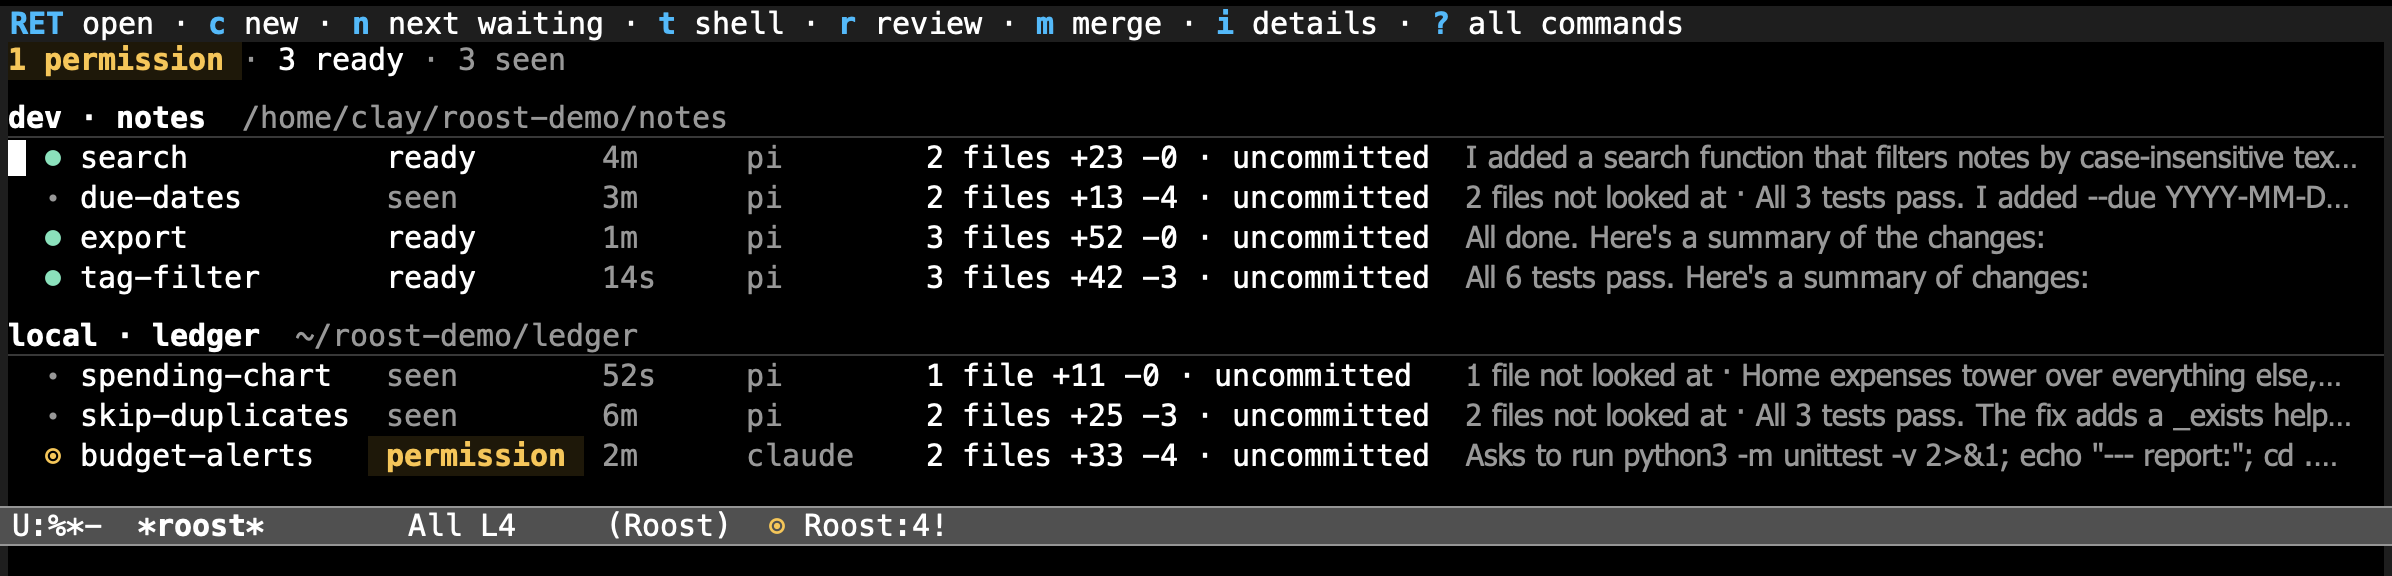
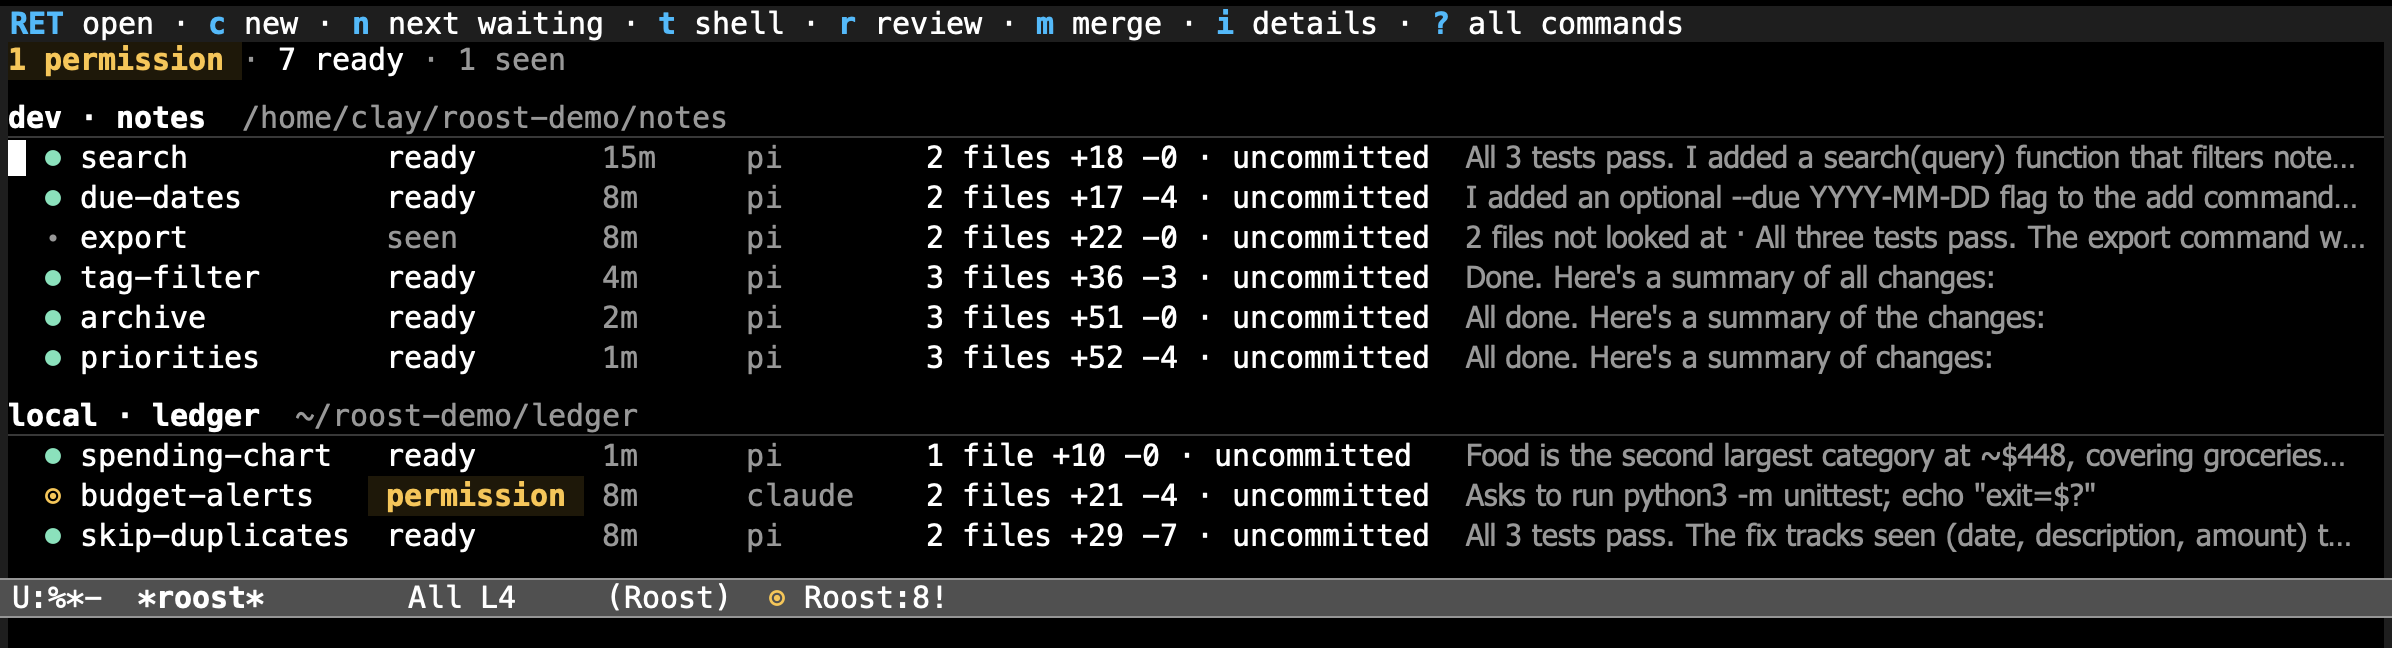
Retake the README's hero, review and dashboard with a task's terminal named

diff --git a/docs/demo.md b/docs/demo.md
@@ -3,7 +3,7 @@
 The images are captures of GUI Emacs, taken while agents worked on two small
 disposable projects: `ledger`, an expense-ledger CLI on this machine, and
 `notes`, a notes CLI on the host `dev`. Every agent was a real session in its
-own terminal: six of Pi 1.5.2, with a model run locally (qwen3.6-35b in LM
+own terminal: eight of Pi 1.5.2, with a model run locally (qwen3.6-35b in LM
 Studio), and one of Claude Code 2.1.325 (`--model haiku`, with
 `--permission-mode acceptEdits`, so it asked before commands but not before
 edits).
@@ -18,37 +18,40 @@ else. It had `roost-sidebar-mode` and `roost-task-panel-mode` on,
 
 `dev` was a Linux machine reached over SSH, with its own helper, tmux server
 and task records. Its Pi sessions used the model on this machine, through a
-port forwarded over SSH. Pi was started as
-`env PI_IMAGE_PROTOCOL=kitty PI_OFFLINE=1 pi`, which has it send the images
-it reads and leaves out its notices of updates. The title bar was cropped
-from each capture.
+port forwarded over SSH. Pi was started as `env PI_OFFLINE=1 pi`, which
+leaves out its notices of updates; Roost has it send the images it reads.
+The title bar was cropped from each capture.
 
 | File | What it shows |
 | --- | --- |
-| `roost-hero.png` | Seven agents on two hosts: the sidebar, the terminal of `spending-chart`, where Pi has read the chart it drew and the picture shows above its reply, and that task's panel |
+| `roost-hero.png` | Nine agents on two hosts: the sidebar, the terminal of `spending-chart`, where Pi has read the chart it drew and the picture shows above its reply, and that task's panel |
 | `roost-new-task.png` | `plans.org` beside the draft that `C-c r c` made from its heading |
 | `roost-review.png` | `spending-chart`'s terminal above the diff of `ledger.py`, with a review note under a line |
-| `roost-dashboard.png` | The dashboard of the same seven tasks, with `budget-alerts` asking |
+| `roost-dashboard.png` | The dashboard of the same nine tasks, with `budget-alerts` asking |
 
 ## How they were made
 
 All four were taken on 2026-11-16, with Roost as it is after 0.12.0 and
-terminals through ghostel-tmux. `ledger` has a `plot.py` that draws a bar
+terminals through ghostel-tmux; the hero, the review and the dashboard
+again that day, once a task's terminal was named by its host and task. `ledger` has a `plot.py` that draws a bar
 chart as a PNG with no plotting library. `spending-chart` was asked to add a
 `chart` command that draws spending by category with it, to run it, and to
 look at the picture with Pi's read tool, which is what puts the picture in
-its terminal; it was then asked to show the picture again and say in a
-sentence what stands out, with Pi's thinking folded (`C-t` in Pi). The
+its terminal; it was then asked to read the picture again and say in a
+sentence which category is smallest, with Pi's thinking folded (`C-t` in
+Pi). The picture is drawn when Pi reads it, and goes blank when Pi draws
+its screen again, as after the frame changes size, so each capture was
+taken at its size before the last read. The
 other Pi tasks were given small features with tests, and left when they
 finished. `budget-alerts`, the Claude Code task, was answered until it asked
 to run `python3 -m unittest`, and left asking. To have one agent working at
-the moment of the hero, `tag-filter` was started on `dev` just before it.
+the moment of the hero, `priorities` was started on `dev` just before it.
 The review note was saved on its line of the diff of `ledger.py`, which was
 opened with `roost-diff` from `spending-chart`.
 
 Each was taken at its own frame size, so that the text reads at the width
-GitHub shows the README: 172 columns by 40 lines for the hero, 132 by 20 for
-the draft and 132 by 16 for the dashboard, with the sidebar and panel off,
+GitHub shows the README: 172 columns by 38 lines for the hero, 132 by 20 for
+the draft and 132 by 18 for the dashboard, with the sidebar and panel off,
 and 156 by 36 for the review, with the sidebar off. The disposable projects,
 tasks and capture state were removed afterwards.
 

diff --git a/README.md b/README.md
@@ -12,9 +12,9 @@ worktree, a branch and a terminal, here or on any SSH host. It tells you which
 agents need you, and you review and merge their work with Magit. If you've
 used Orca, it's that idea, inside Emacs.
 
-![Emacs with three columns: Roost's sidebar listing seven agents on two hosts, the one you are on marked with a band, two ready, one working, one with changes not looked at, one already looked at and one asking permission, with what it asks under it; that agent's Pi terminal, where it has read the chart it drew, and the bar chart shows above its reply; and the task's panel, which says to review its changes in Magit and lists the file it changed](docs/images/roost-hero.png)
+![Emacs with three columns: Roost's sidebar listing nine agents on two hosts, the one you are on marked with a band, five ready, one working, one with changes not looked at and one asking permission, with what it asks under it; that agent's Pi terminal, named local › spending-chart in its mode line, where it has read the chart it drew, and the bar chart shows above its reply; and the task's panel, which says to review its changes in Magit and lists the file it changed](docs/images/roost-hero.png)
 
-*Seven agents on two hosts, six of them Pi and one Claude Code. The Pi agent
+*Nine agents on two hosts, eight of them Pi and one Claude Code. The Pi agent
 in the middle drew a chart and looked at it, and its terminal shows the
 picture. Every task is at the left, and at the right is what to do next and
 what it changed.*
@@ -62,7 +62,7 @@ it's doing right now (`Running make test`, `Editing ledger.py`), what it
 changed, and its latest reply or what it asks. A notification says the same
 when one finishes or asks for something.
 
-![The dashboard, counting 1 permission, 3 ready and 3 seen: four Pi tasks on dev, three ready and one seen, and three local ones, two Pi tasks seen and a Claude Code task asking to run python3 -m unittest, each with a light in the shape of its status, its agent, its changes, and its latest reply or what it asks](docs/images/roost-dashboard.png)
+![The dashboard, counting 1 permission, 7 ready and 1 seen: six Pi tasks on dev, five ready and one seen, and three local ones, two Pi tasks ready and a Claude Code task asking to run python3 -m unittest, each with a light in the shape of its status, its agent, its changes, and its latest reply or what it asks](docs/images/roost-dashboard.png)
 
 ## How it differs
 
